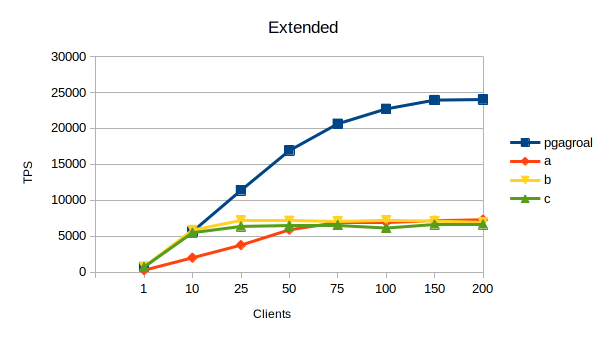
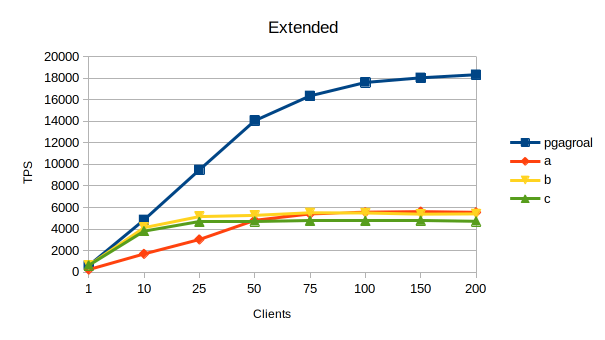
Performance run: 20200114

diff --git a/performance.html b/performance.html
@@ -24,10 +24,10 @@ layout: default
     All diagrams are using the same identifier for the connection pool in question, so "a" is "a" in all
     diagrams and so on.
     <p/>
-    The runs were performed on <a href="https://www.redhat.com/en/technologies/linux-platforms/enterprise-linux">RHEL</a> 7.6 /
+    The runs were performed on <a href="https://www.redhat.com/en/technologies/linux-platforms/enterprise-linux">RHEL</a> 7.7 /
     <a href="https://access.redhat.com/solutions/3358">EPEL</a> /
     <a href="https://developers.redhat.com/products/developertoolset/overview">DevTools</a> 8
-    based machines on 10G network. All connection pools were the latest versions as of August 28, 2019. pgagroal was
+    based machines on 10G network. All connection pools were the latest versions as of January 14, 2020. pgagroal was
     using the epoll mode of <a href="http://software.schmorp.de/pkg/libev.html">libev</a>.
 
     <h3>Simple</h3>

diff --git a/_posts/2020-01-14-performance-rhel-7.7.md b/_posts/2020-01-14-performance-rhel-7.7.md
@@ -1,0 +1,9 @@
+---
+layout: post
+title:  "Performance numbers for RHEL 7.7"
+date:   2020-01-14
+categories: news
+---
+
+The [performance](https://agroal.github.io/pgagroal/performance.html) has been updated
+for the latest connection pools, as of January 14, 2020.
